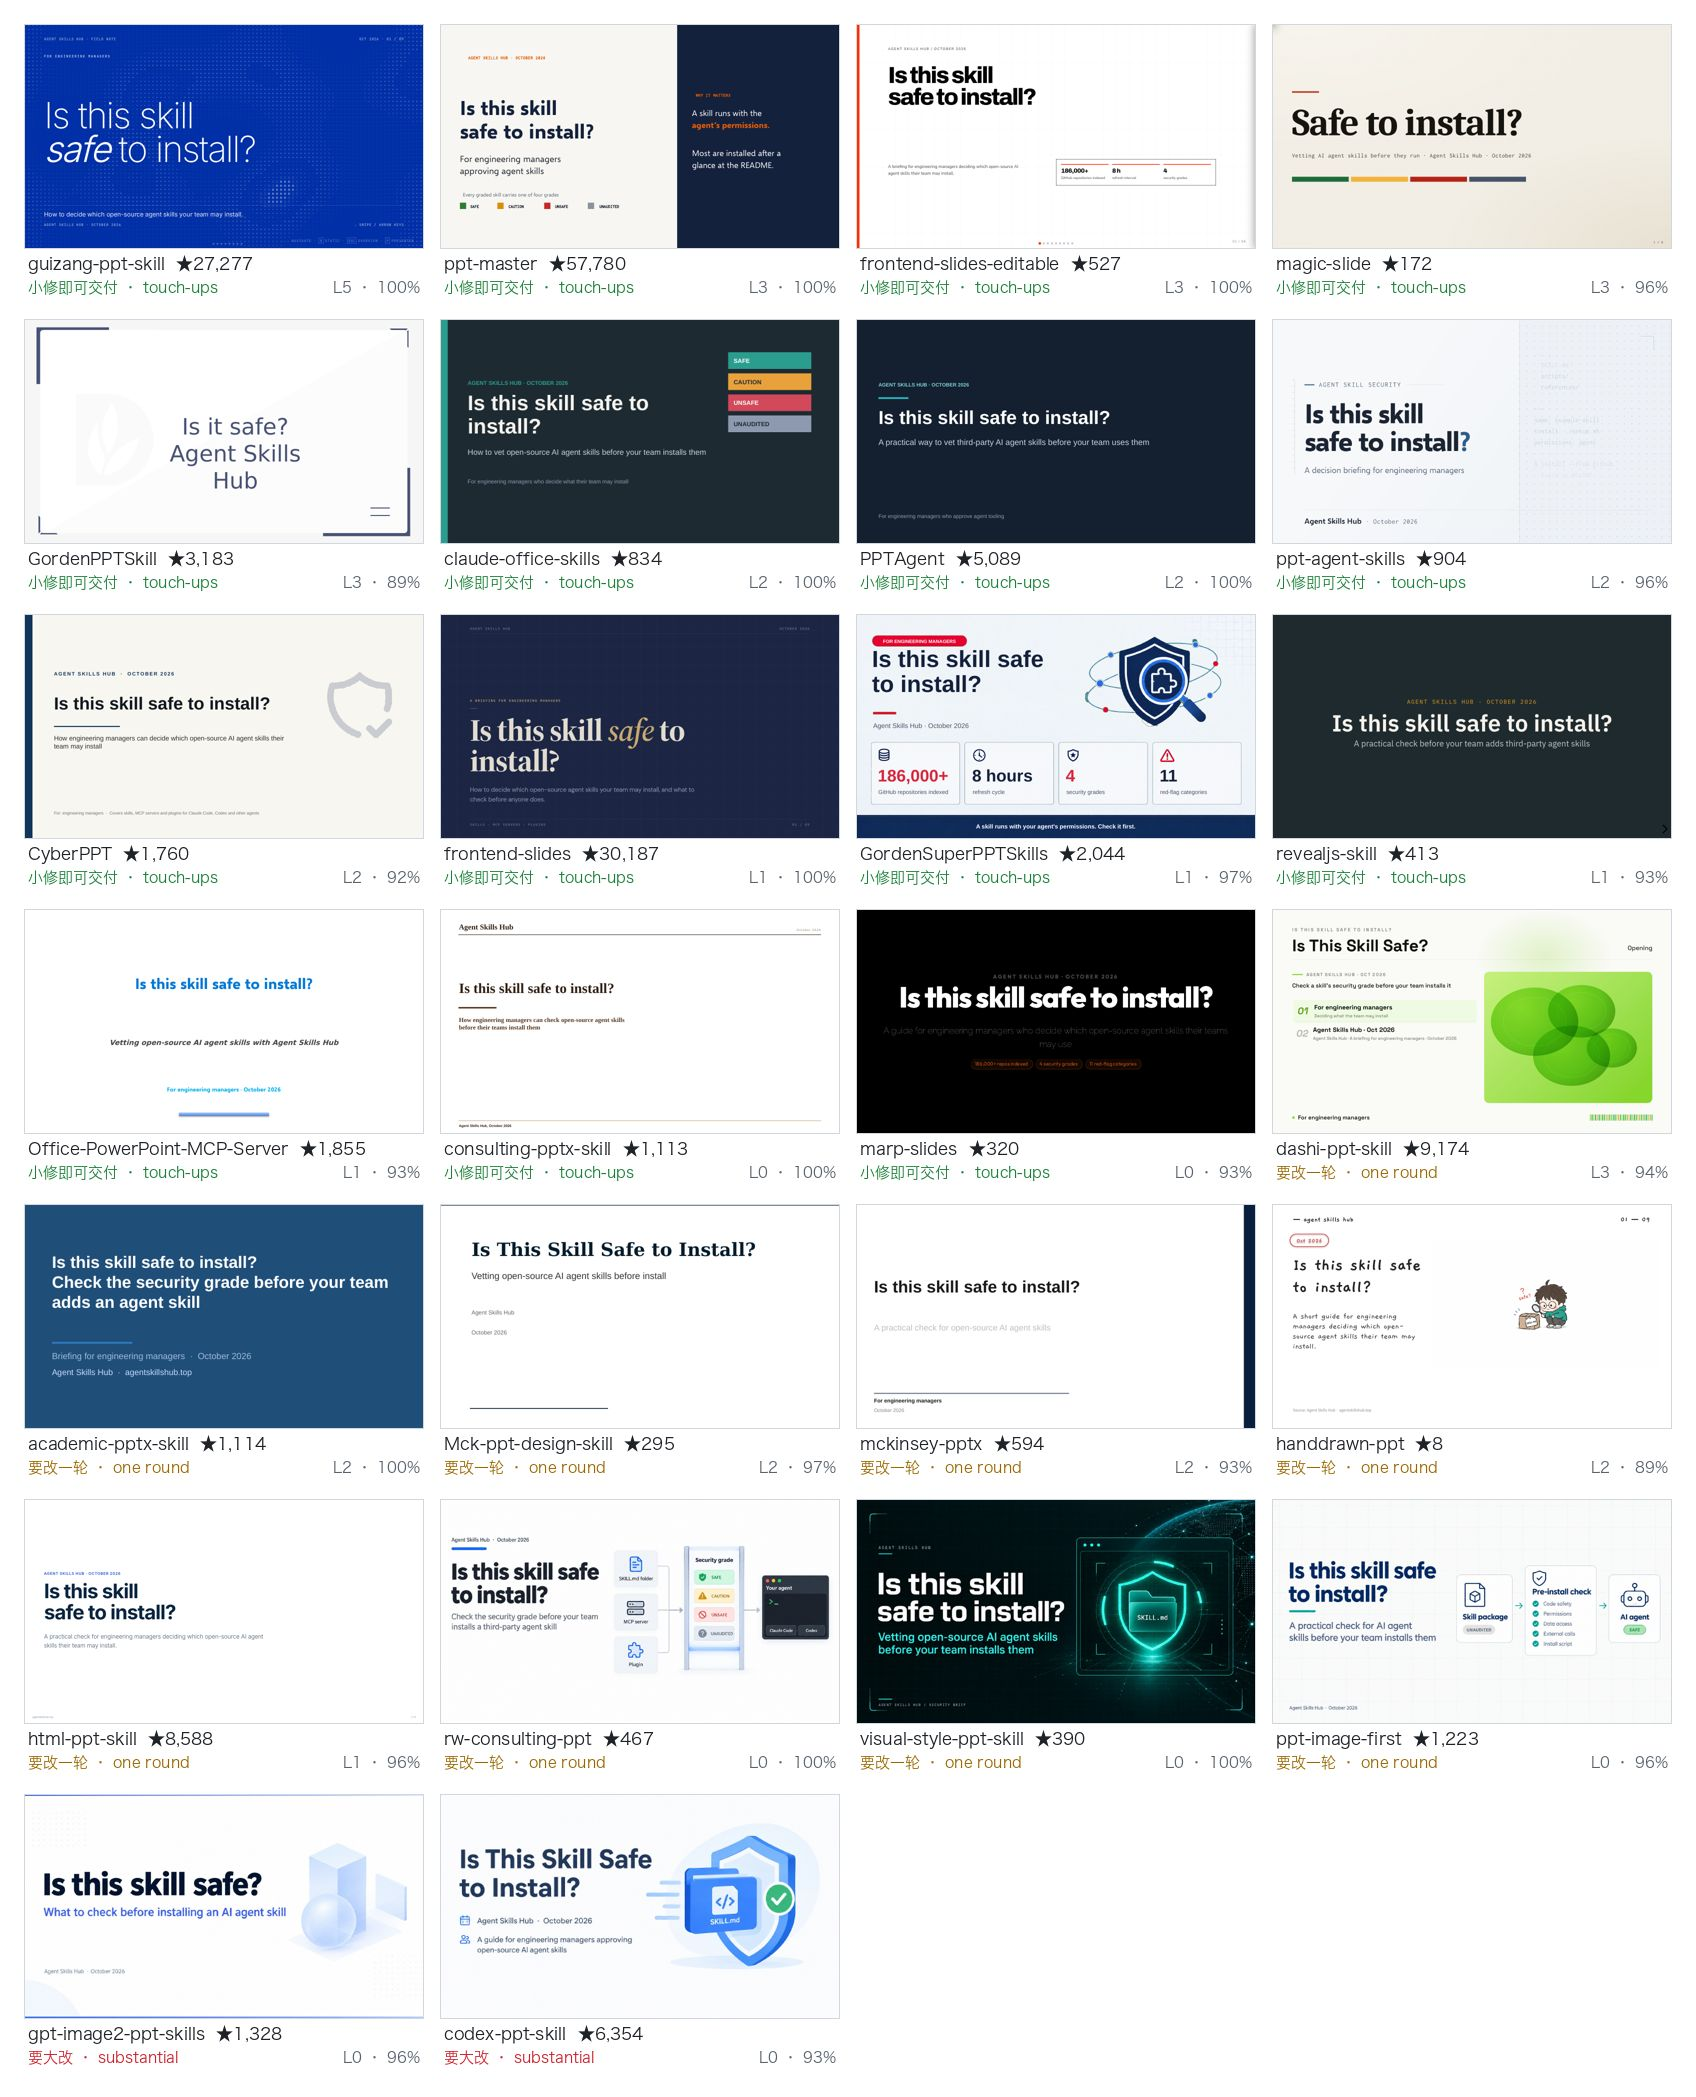
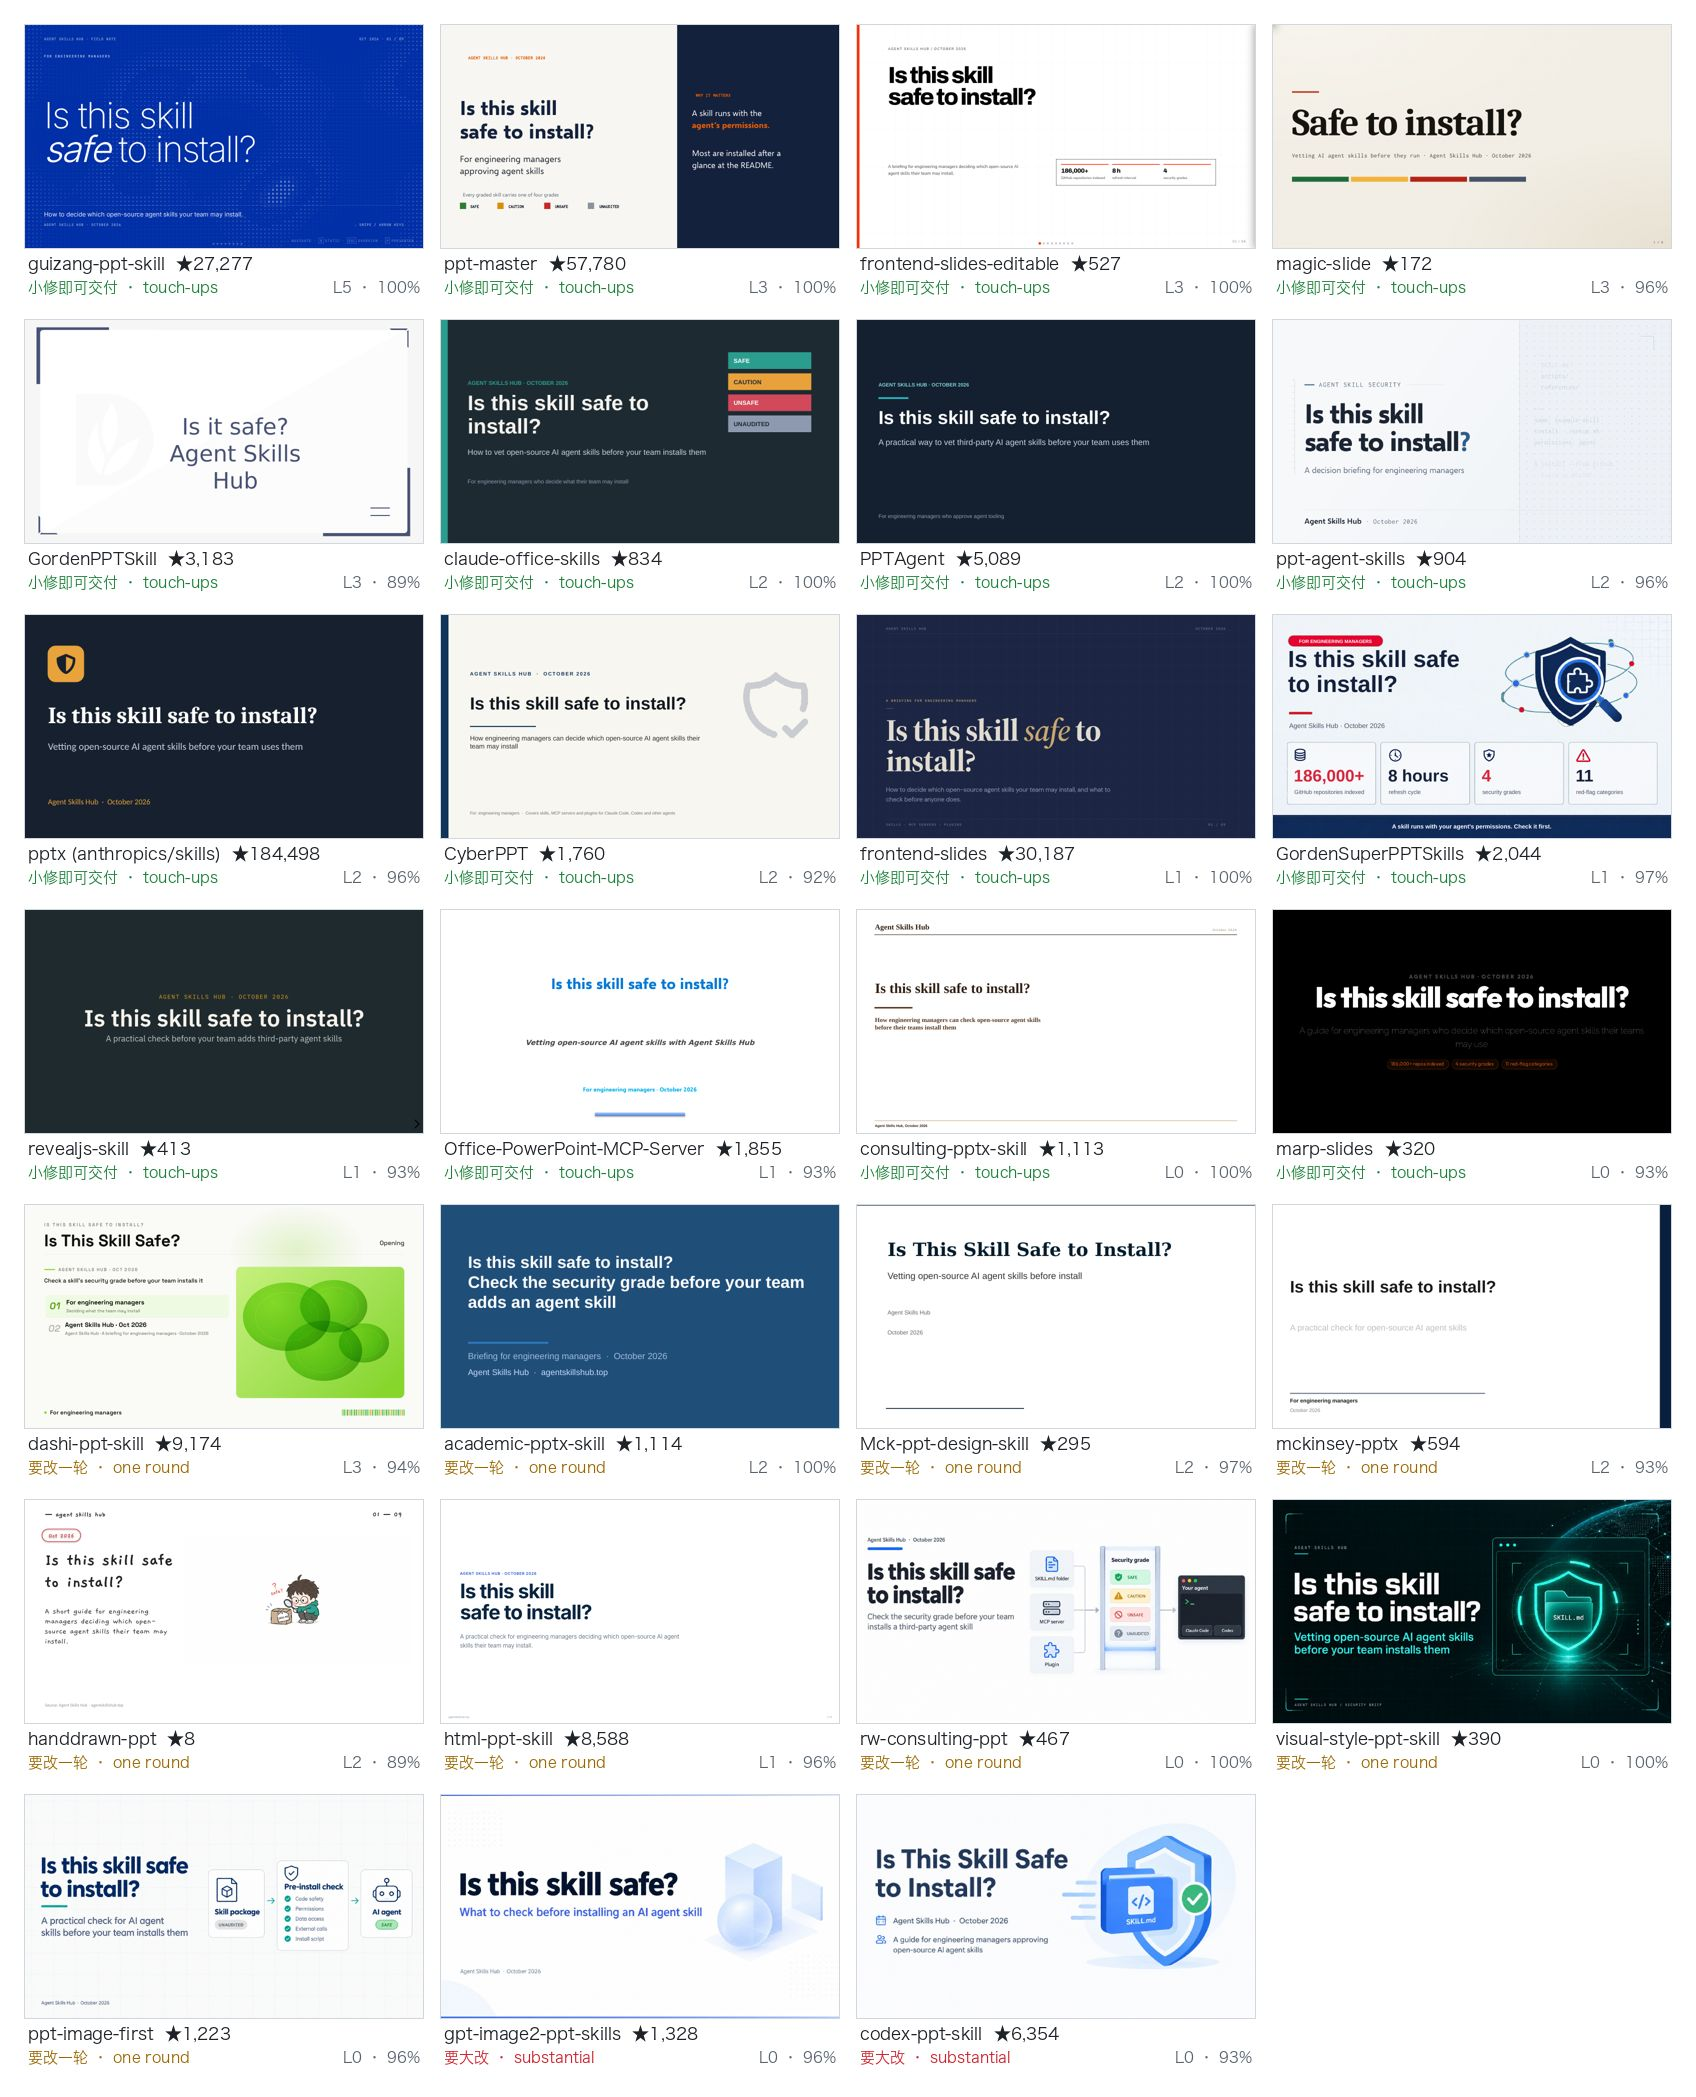
feat(best): video page leads with Claude video editing and moves Remotion up; PPT page tests Anthropic's pptx
Video page (/best/claude-video-skills/). Four weeks of GSC (10-03..10-30): every
query with "remotion" brought this page 180 impressions and 1 click, and the bare
"remotion skill" 5 impressions, while the "claude (code) video editing skill"
family brought about 2,000 impressions at position 8 with 3% CTR. Neither the
title nor the H1 said "video editing". In the week after (10-26..11-01), queries
with "edit" had 1,664 impressions at position 8.4 and queries with "remotion" 672
at position 9.5.
- Subject: "Claude Video Editing & Remotion Skills" (title, H1, description,
  ItemList); seo_keyword "claude video editing skill"; Chinese title to match.
- Right after the quick pick, "Editing footage you already have: which skill for
  which job": cut-video, SeeCut, claude-shorts, OpenChatCut and the Premiere Pro
  MCP, each SAFE, usable from Claude Code and the most-starred on the page for its
  job, described from its README; the note says none was in our film test.
- The Remotion section (the official skills, their install command and the 8
  Remotion entries) moves from below the method section to right after those
  picks, and opens with a one-sentence definition of a Remotion skill. A focus
  section can now say "after": "explainer" (focusAt in scenario-answer.mjs);
  every other page keeps its focus section where it was.

PPT page (/best/ppt-presentation/). Its title and H1 stay as they are: the
10-26 change is still being read ("ppt skill" CTR 4.77% against 2.8% before,
[…]

diff --git a/frontend/src/pages/SubSkillPage.tsx b/frontend/src/pages/SubSkillPage.tsx
@@ -14,6 +14,7 @@ import { SiteFooter } from "../components/SiteFooter";
 import { SecurityBadge } from "../components/SecurityBadge";
 import { CopyablePre } from "../components/CopyableCode";
 import { SubSkillLinks } from "../components/SubSkillList";
+import { TestedByUs } from "../components/TestedByUs";
 
 const SIBLINGS_SHOWN = 20; // SIBLINGS_SHOWN in scripts/sub-skills.mjs
 const CARD = "bg-white dark:bg-gray-900 rounded-xl border border-gray-200 dark:border-gray-700 p-5 mb-6";
@@ -165,6 +166,7 @@ export function SubSkillPage() {
     <PageShell crumb={data.skill.name}>
       <SubSkillHead skill={data.skill} published={published} />
       <SubSkillHero skill={data.skill} parent={data.parent} />
+      <TestedByUs />
       <SubSkillInstall skill={data.skill} />
       <SubSkillBody skill={data.skill} list={data.list ?? []} />
     </PageShell>

diff --git a/ops/ppt-runs/to_page.py b/ops/ppt-runs/to_page.py
@@ -15,8 +15,8 @@ VERDICT = {
              "排名规则：先看交付前要返工多少，再看可编辑性等级（PEI），最后看内容检查单。"],
     "picks": [
         {"repo": "hugohe3/ppt-master", "role": ["For a PowerPoint file a colleague will edit", "要一份同事能接着改的 PowerPoint"],
-         "why": ["A native, structured PPTX (editability L3) that needed only touch-ups and scored 100% on the content rubric; 11 minutes. For the same in 3 minutes with simpler structure, claude-office-skills (L2, 100%).",
-                 "原生、结构化的 PPTX（可编辑性 L3），小修即可交付，内容检查单 100%；用时 11 分钟。想 3 分钟出一份、结构简单些，选 claude-office-skills（L2，100%）。"]},
+         "why": ["A native, structured PPTX (editability L3) that needed only touch-ups and scored 100% on the content rubric; 11 minutes. For the same in 3 minutes with simpler structure, claude-office-skills (L2, 100%). Anthropic's own pptx skill made one in 2.4 minutes (L2, 96%).",
+                 "原生、结构化的 PPTX（可编辑性 L3），小修即可交付，内容检查单 100%；用时 11 分钟。想 3 分钟出一份、结构简单些，选 claude-office-skills（L2，100%）。Anthropic 官方的 pptx skill 2.4 分钟做出一份（L2，96%）。"]},
         {"repo": "op7418/guizang-ppt-skill", "role": ["For slides you present yourself, in a browser", "自己在浏览器里上台讲"],
          "why": ["Web slides with native tables and animation (L5), touch-ups only, 100% on content. You edit them in code, not in PowerPoint.",
                  "网页幻灯片，带原生表格和动画（L5），小修即可，内容 100%。要改得改代码，不是在 PowerPoint 里改。"]},
@@ -29,8 +29,8 @@ VERDICT = {
         {"repo": "JuneYaooo/gpt-image2-ppt-skills", "why": ["all images, needed substantial rework", "整页图片，要大改"]},
         {"repo": "ningzimu/codex-ppt-skill", "why": ["all images, needed substantial rework", "整页图片，要大改"]},
     ],
-    "caveat": ["Content was not where decks differed: 10 of 26 scored 100% on the rubric. Pick by whether you can edit the result.",
-               "内容不是拉开差距的地方：26 份里 10 份检查单满分。按\"之后能不能改\"来选。"],
+    "caveat": ["Content was not where decks differed: 10 of 27 scored 100% on the rubric. Pick by whether you can edit the result.",
+               "内容不是拉开差距的地方：27 份里 10 份检查单满分。按\"之后能不能改\"来选。"],
 }
 
 

diff --git a/ops/awesome/check_consistency.py b/ops/awesome/check_consistency.py
@@ -26,10 +26,12 @@ LISTS.update({slug: cfg["repo"] for slug, cfg in PAGE_LISTS.items()})
 SLUG = sys.argv[1] if len(sys.argv) > 1 else "claude-video-skills"
 PAGE = f"https://agentskillshub.top/best/{SLUG}/"
 LIST = f"https://raw.githubusercontent.com/{LISTS[SLUG]}/main/data/skills.json"
-# Cards may carry more classes than bp-card / bp-card-title: since 10-07 they are
-# "bp-card bp-sc-card" and "bp-card-title bp-sc-title", and an exact match read every
-# page as empty ("page 0 · list 327" on knowledge-base, 10-07).
-CARD = re.compile(r'<div class="bp-card(?: [^"]*)?" data-kind="([^"]*)"[^>]*>.*?class="bp-card-title(?: [^"]*)?" href="([^"]+)"', re.S)
+# Cards may carry more classes than bp-card: since 10-07 they are "bp-card bp-sc-card",
+# and an exact match read every page as empty ("page 0 · list 327" on knowledge-base, 10-07).
+# Each card is keyed by its GitHub link (bp-sc-gh), which names a sub-skill's folder the way
+# the list does (owner/repo/skills/pptx). The title links to the sub-skill's own page
+# (/skill/owner/repo/pptx/) once it has one, which drops the folder's parent.
+CARD = re.compile(r'<div class="bp-card(?: [^"]*)?" data-kind="([^"]*)"[^>]*>.*?class="bp-sc-gh" href="([^"]+)"', re.S)
 HTTP_TIMEOUT = 30
 
 
@@ -42,9 +44,7 @@ def get(url: str) -> str:
 def on_page(html: str) -> dict:
     found = {}
     for kind, href in CARD.findall(html):
-        key = re.sub(r"^/skill/|/$", "", href) if href.startswith("/skill/") else \
-            re.sub(r"^https://github\.com/|/tree/HEAD", "", href)
-        found[key.lower()] = kind
+        found[re.sub(r"^https://github\.com/|/tree/HEAD", "", href).lower()] = kind
     return found
 
 

diff --git a/ops/ppt-runs/compare.py b/ops/ppt-runs/compare.py
@@ -22,6 +22,7 @@ REWORK_RANK = {"touch-ups": 0, "one round": 1, "substantial": 2}
 REWORK = {"touch-ups": "小修即可交付 · touch-ups", "one round": "要改一轮 · one round", "substantial": "要大改 · substantial"}
 REWORK_COLOR = {"touch-ups": (26, 127, 55), "one round": (154, 103, 0), "substantial": (207, 34, 46)}
 SLIDE_FIX: dict[str, int] = {}   # repo -> routes slide number, where the judge's number was off
+NAMES = {"anthropics/skills": "pptx (anthropics/skills)"}   # one skill inside a bigger repo: its own name
 FONT = "/System/Library/Fonts/Hiragino Sans GB.ttc"   # macOS; any CJK font works
 
 
@@ -43,7 +44,7 @@ def tile(img: Path, row: dict, fonts) -> Image.Image:
     t.paste(im, ((TILE_W - im.width) // 2, (TILE_H - im.height) // 2))
     d = ImageDraw.Draw(t)
     d.rectangle([0, 0, TILE_W - 1, TILE_H - 1], outline=(208, 215, 222))
-    name = row["repo"].split("/")[1]
+    name = NAMES.get(row["repo"], row["repo"].split("/")[1])
     d.text((4, TILE_H + 6), f"{name}  ★{row['stars']:,}", fill=(31, 35, 40), font=fonts[0])
     d.text((4, TILE_H + 30), REWORK[row["rework"]], fill=REWORK_COLOR[row["rework"]], font=fonts[1])
     right = f"L{row['pei']} · {round(row['checklist'] * 100)}%"

diff --git a/ops/jev-review/scenario_gate.py b/ops/jev-review/scenario_gate.py
@@ -118,6 +118,8 @@ QUERIES = {
             "幻灯片 skill in:name,description",
         ],
         "names_model": r"(?!x)x",   # no model wave on this page
+        # Anthropic's own pptx skill, one folder of anthropics/skills (added 2026-11-01, run in the PPT test).
+        "sub_skill_kinds": {"anthropics/skills/skills/pptx": "pptx"},
     },
     "typesafe-jev": {
         "wave": [],

diff --git a/ops/ppt-runs/RESULTS.md b/ops/ppt-runs/RESULTS.md
@@ -12,6 +12,7 @@
 | irenerachel/visual-style-ppt-skill | 390 | convert | deck.pptx | L0 | 100% | 100% / 100% / 100% / 100% / 100% | one round | yes | 8.1 |
 | GordenSun/GordenSuperPPTSkills | 2044 | pptx | skill-safety-editable.pptx | L1 | 97% | 100% / 83% / 100% / 100% / 100% | touch-ups | yes | 14.0 |
 | likaku/Mck-ppt-design-skill | 295 | business | skill-safety-deck.pptx | L2 | 97% | 100% / 83% / 100% / 100% / 100% | one round | yes | 2.6 |
+| anthropics/skills | 184498 | pptx | skill-safety-brief.pptx | L2 | 96% | 80% / 100% / 100% / 100% / 100% | touch-ups | yes | 2.4 |
 | lewislulu/html-ppt-skill | 8588 | html | index.html | L1 | 96% | 100% / 100% / 100% / 100% / 80% | one round | yes | 3.9 |
 | ningzimu/image-to-editable-ppt-skill | 2781 | pptx | image-deck_edited.pptx | L2 | 96% | 80% / 100% / 100% / 100% / 100% | touch-ups | yes | 10.1 |
 | JuneYaooo/gpt-image2-ppt-skills | 1328 | pptx | Is_This_Skill_Safe_to_Install.pptx | L0 | 96% | 80% / 100% / 100% / 100% / 100% | substantial | yes | 9.6 |
